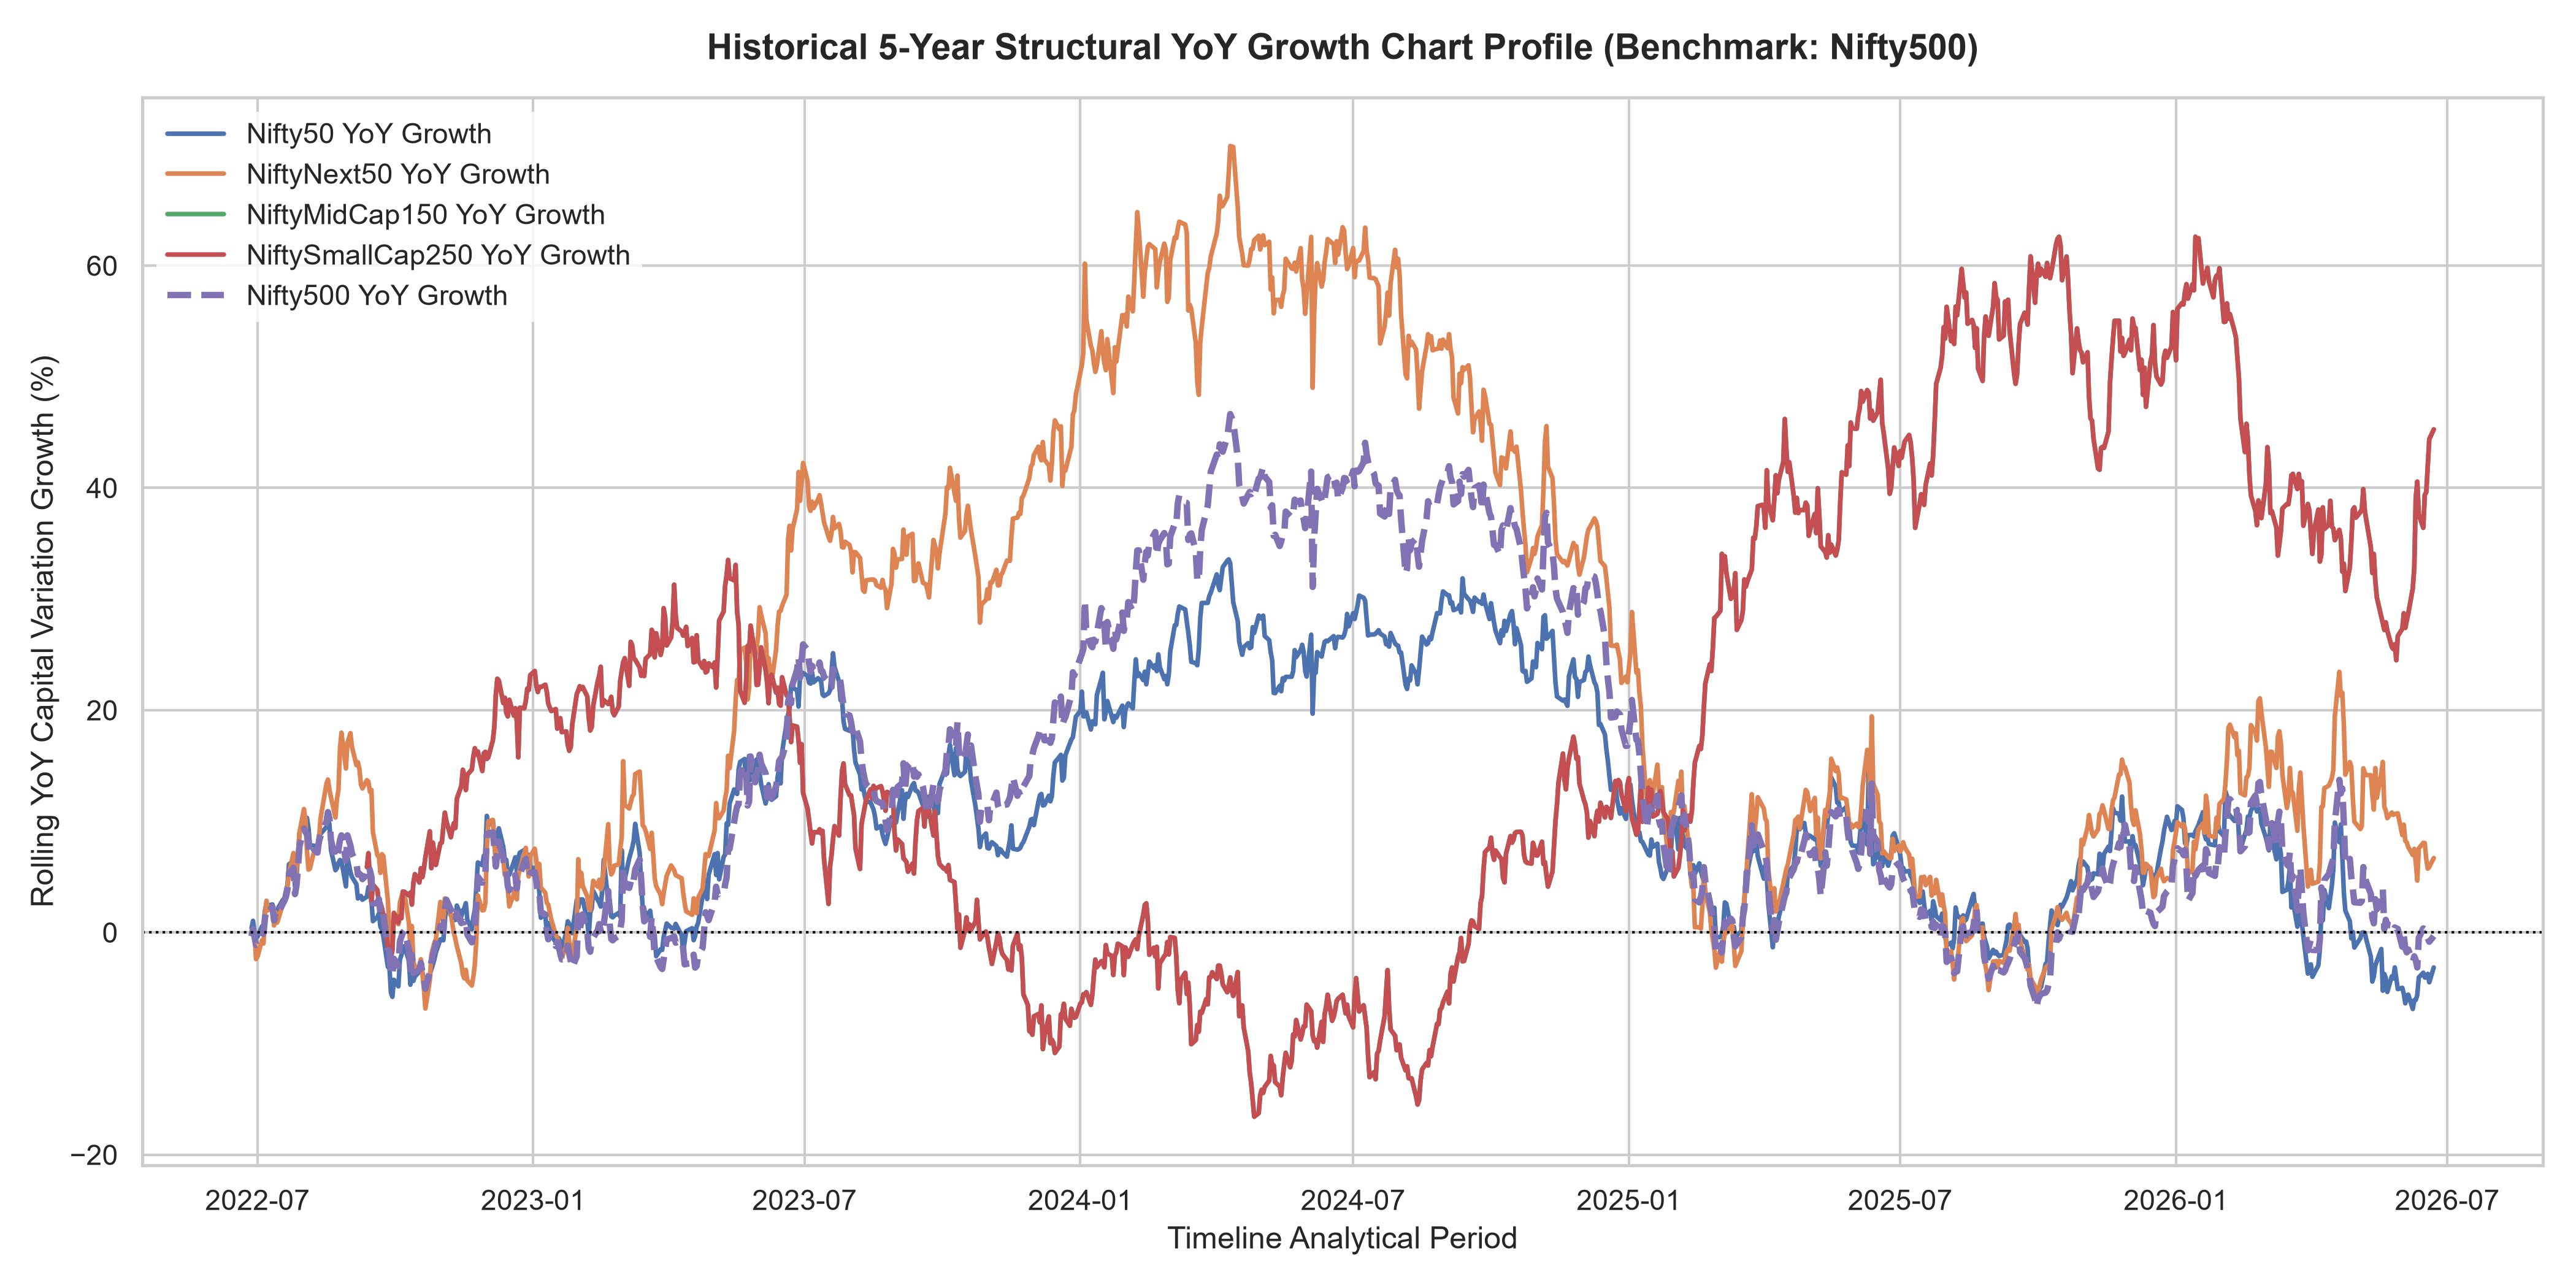
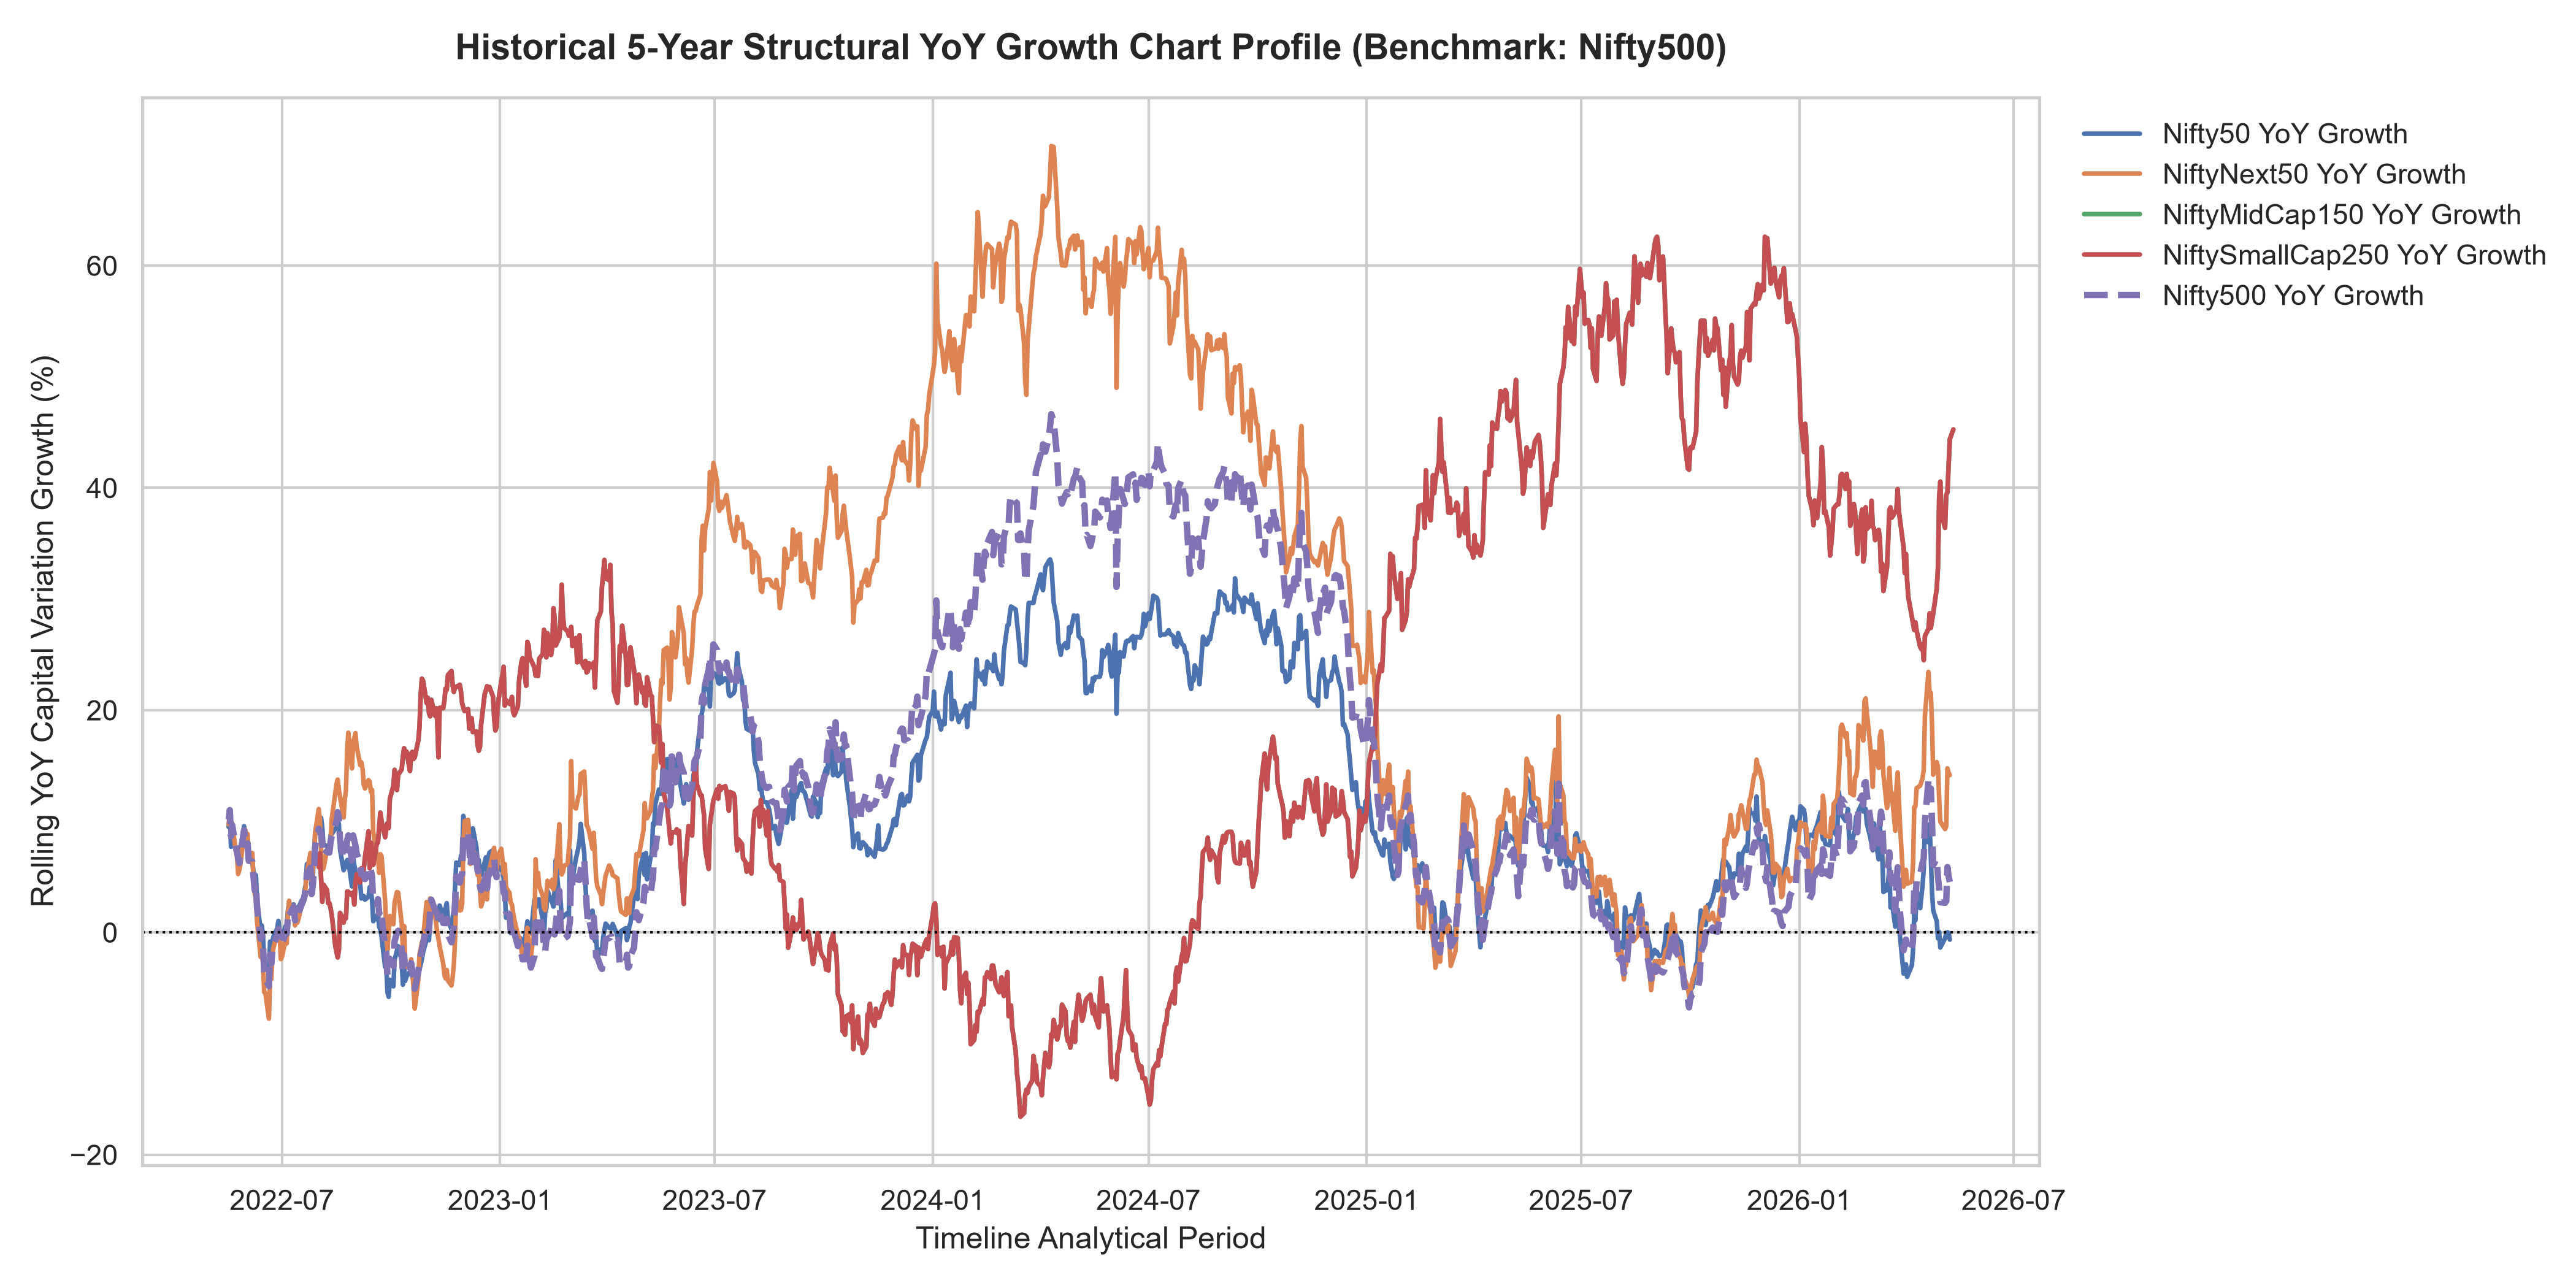
Update changes

diff --git a/README.md b/README.md
@@ -1,62 +1,68 @@
-# AI-Powered Automated Stock Report Generation System
+# AI-Powered Stock Report Generation
 
-A Python-based system for automated stock report generation, including data ingestion, growth metric processing, chart generation, and prompt creation for market research summaries.
+A self-contained Python system for automated stock report generation, designed to:
 
-## Project Contents
+- ingest historical index market data
+- compute growth metrics, outperformance, and momentum indicators
+- generate visual performance charts
+- build an AI prompt context file for market research summary generation
 
-- `master_engine.py` — Main pipeline for ingesting market data, calculating metrics, generating charts, and writing prompt context.
-- `Yfinance.py` — Alternate data ingestion script using `nselib` and NSE index data.
-- `hello.py` — Sample script for project validation.
-- `Automated_Market_Report_Prompt.txt` — Generated prompt context file for AI report generation.
-- `Simple_NSE_Market_Data.xlsx` — Sample Excel output file.
-- `Market_Growth_Performance_Chart.png` — Generated chart output.
+## Features
 
-## Setup
+- `master_engine.py`: end-to-end pipeline for data ingestion, analytics, visualization, and prompt generation
+- `Yfinance.py`: alternate NSE index ingestion flow using `nselib`
+- `requirements.txt`: dependency list for reproducible setup
+- generated outputs:
+  - `Simple_NSE_Market_Data.xlsx`
+  - `Market_Growth_Performance_Chart.png`
+  - `Automated_Market_Report_Prompt.txt`
 
-1. Create a Python virtual environment:
+## Installation
+
+From the project root (`e:\Python Projects`):
 
 ```powershell
 python -m venv .venv
 .\.venv\Scripts\Activate.ps1
-```
-
-2. Install dependencies:
-
-```powershell
 pip install -r requirements.txt
 ```
 
 ## Usage
 
-Run the main report pipeline:
+Run the main pipeline:
 
 ```powershell
 python master_engine.py
 ```
 
-After execution, the repository will contain:
+Expected outputs after execution:
 
-- `Simple_NSE_Market_Data.xlsx`
-- `Market_Growth_Performance_Chart.png`
-- `Automated_Market_Report_Prompt.txt`
+- `Simple_NSE_Market_Data.xlsx` — Excel workbook with per-index analytics sheets
+- `Market_Growth_Performance_Chart.png` — generated performance visualization
+- `Automated_Market_Report_Prompt.txt` — structured prompt context for AI summary generation
 
 ## Notes
 
-- `master_engine.py` is the primary entrypoint.
-- `Yfinance.py` provides an alternate ingestion method.
-- Add a remote repository and push to GitHub after local commit.
+- `master_engine.py` is the primary entrypoint for the complete workflow.
+- `Yfinance.py` is available as an alternate ingestion script and can be run independently.
+- The project currently uses `yfinance`, `pandas`, `matplotlib`, `seaborn`, and `openpyxl`.
 
-## GitHub Deployment
+## GitHub Repository
 
-1. Create a GitHub repository named `AI-Powered-Automated-Stock-Report-Generation-System`.
-2. Add the remote URL:
+This project has been deployed to:
+
+- `https://github.com/sd19811114-ops/AI-Powered-Stock-Report-Generation`
+
+## Repository Setup
+
+If you need to reset or reconfigure the remote, run:
 
 ```powershell
-git remote add origin https://github.com/<your-username>/AI-Powered-Automated-Stock-Report-Generation-System.git
+git remote remove origin
+git remote add origin https://github.com/sd19811114-ops/AI-Powered-Stock-Report-Generation.git
+git push -u origin main --force
 ```
 
-3. Push the code:
+## Contribution
 
-```powershell
-git push -u origin main
-```
+Feel free to add new ingestion sources, enhance the analytics layer, or connect the prompt output to an LLM-based report generation service.